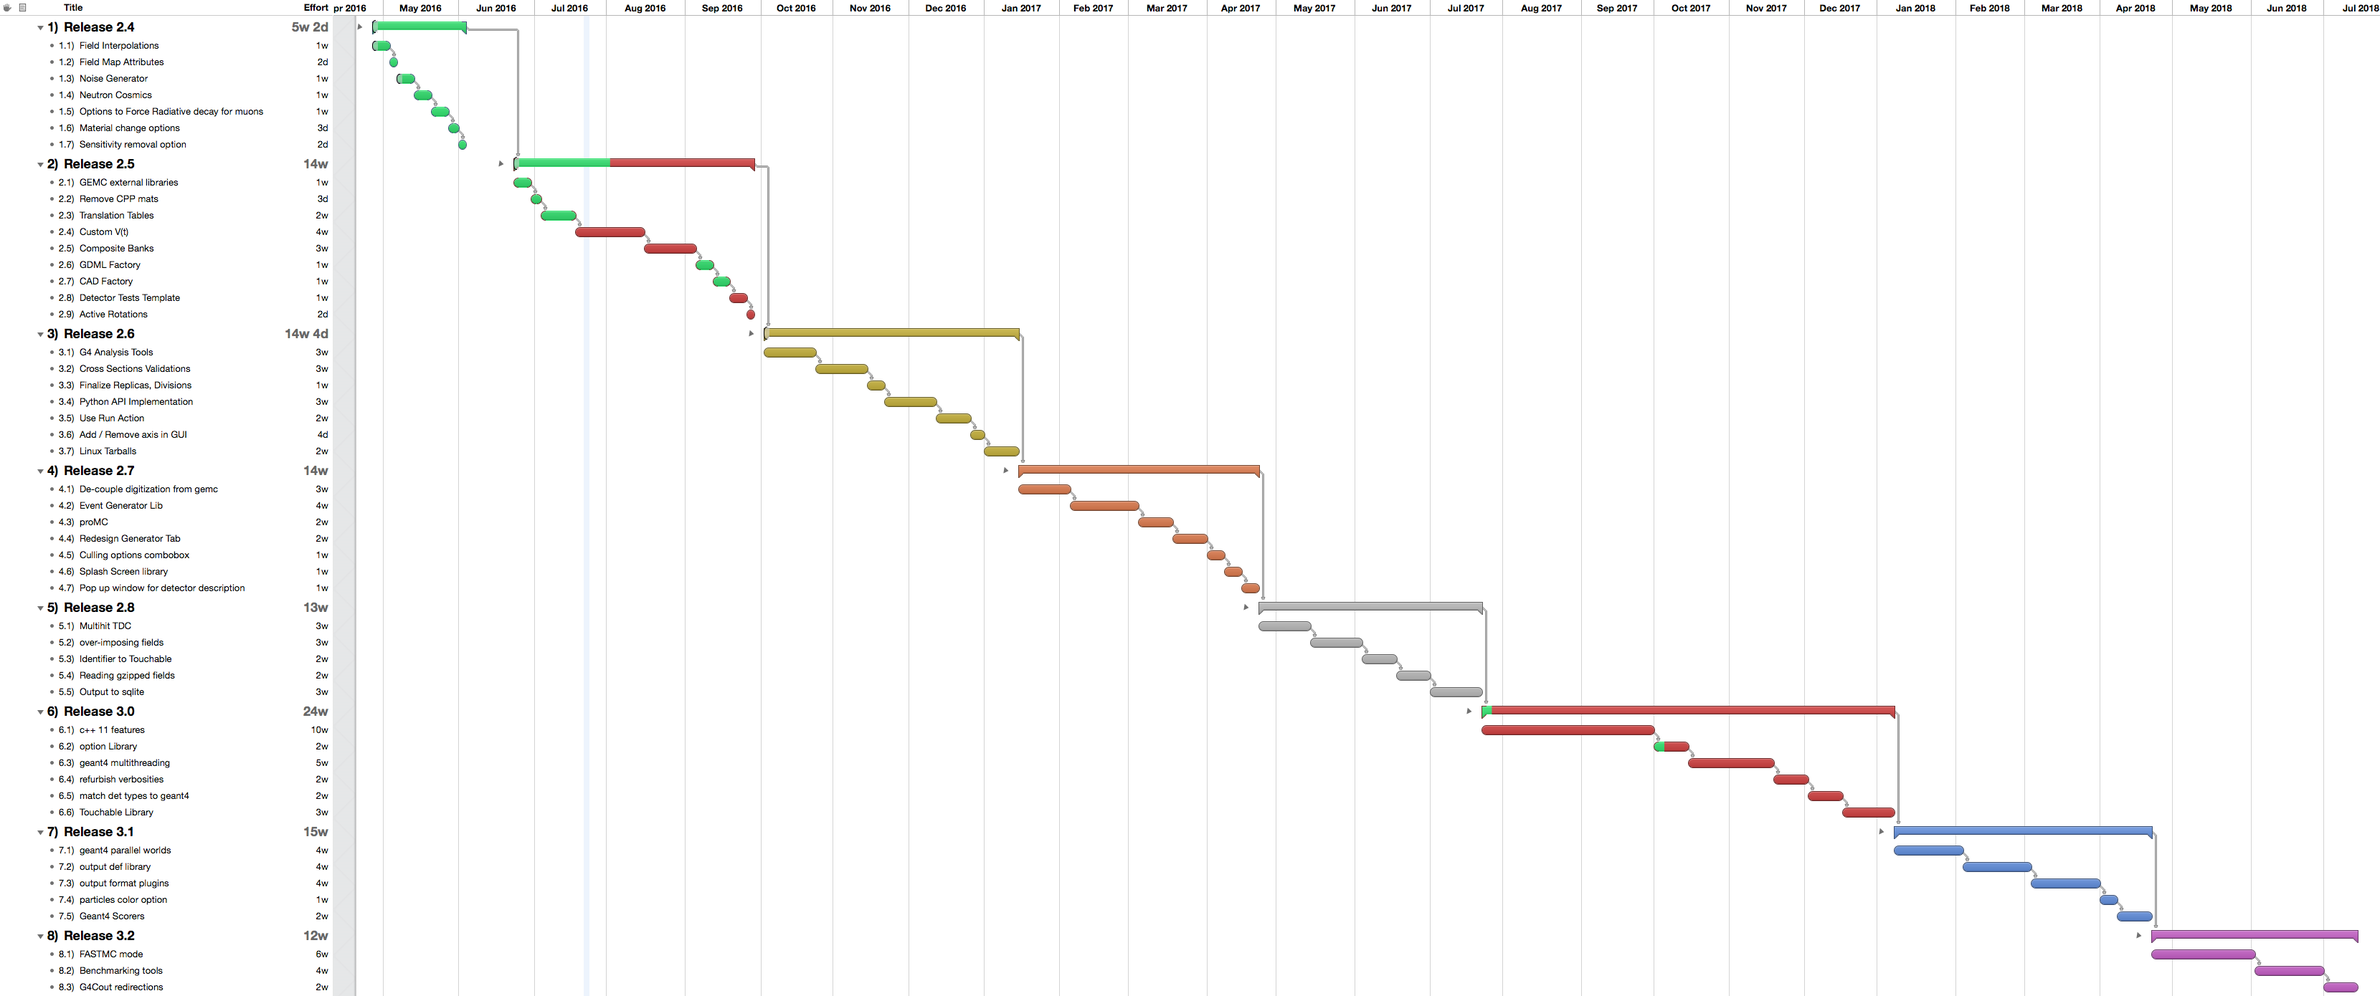
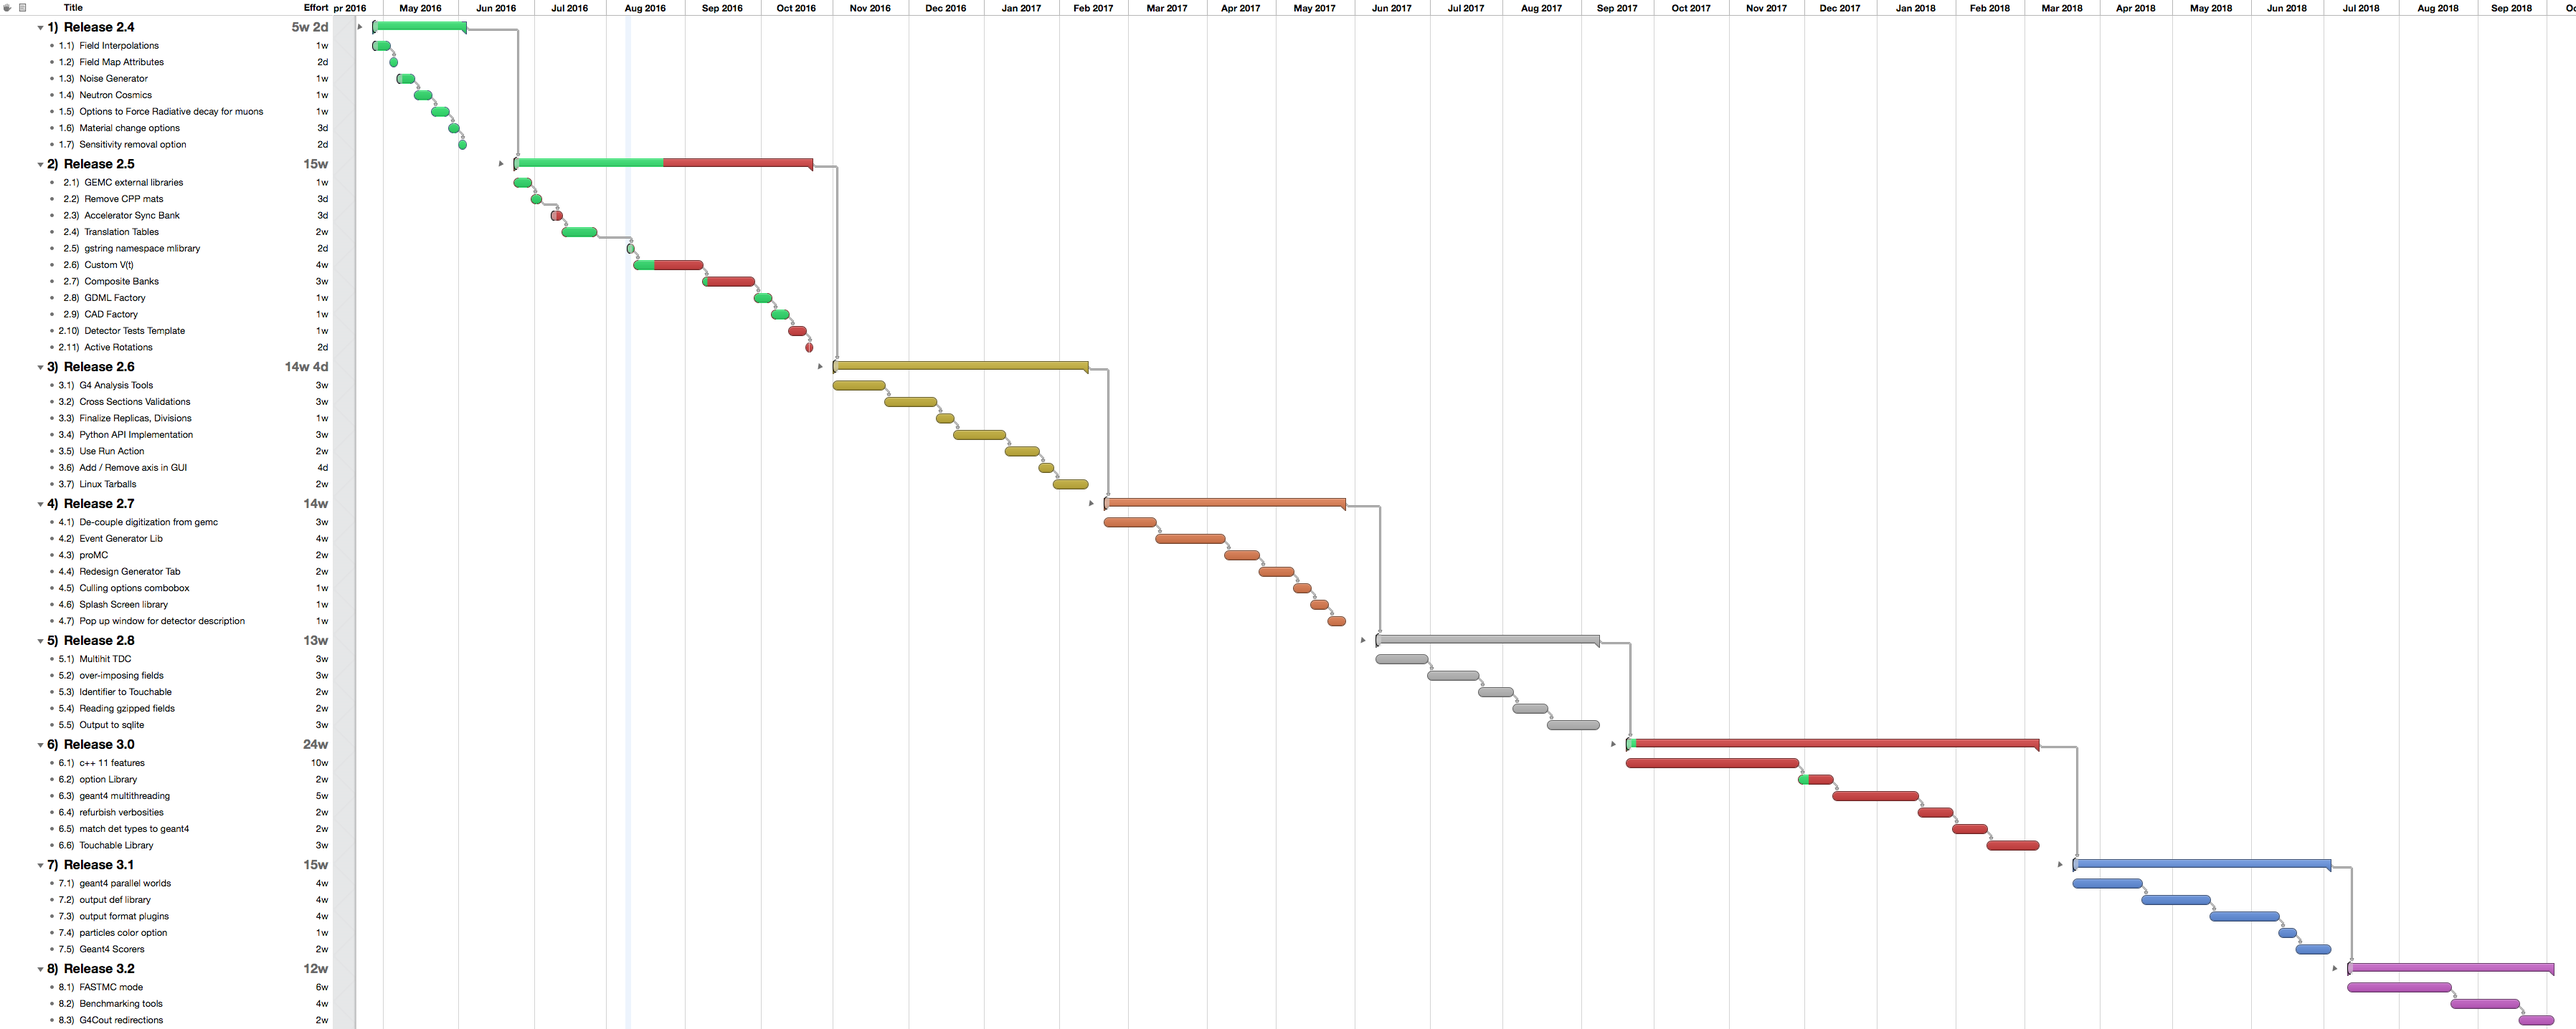
added gstring namespace library in the roadmap

Changed region(s): [[0.0, 0.0, 1.0, 1.0], [0.1862, 0.1237, 0.9931, 1.0]]

diff --git a/webPage/source/documentation/releases/roadmap.rst b/webPage/source/documentation/releases/roadmap.rst
@@ -47,6 +47,9 @@ GEMC 2.5 - September 2016
 
 - **Translation tables mechanism**: from detector identifier to crate/slot/channel. ✅
 
+- gstring namespace library ✅
+
+
 - **Custom V(t)**:
   Currently a Voltage vs time V(t) function is provided by gemc, based on a user parameterization
   and the Edep(t) geant4 steps.
